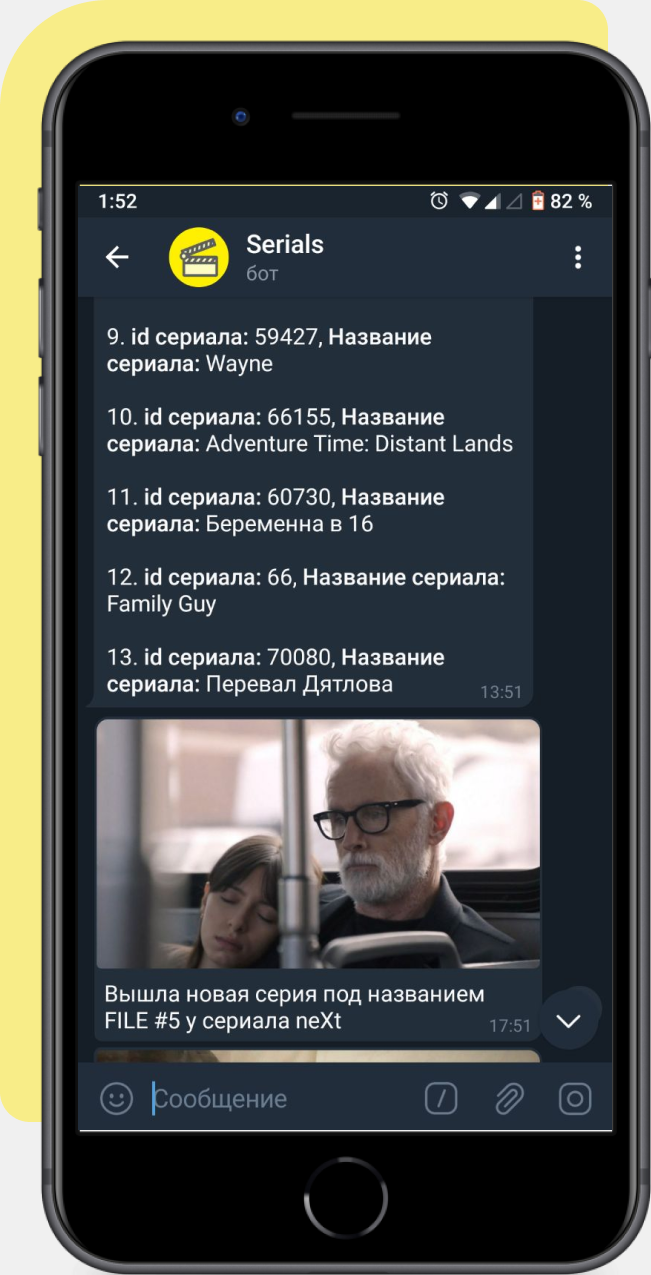
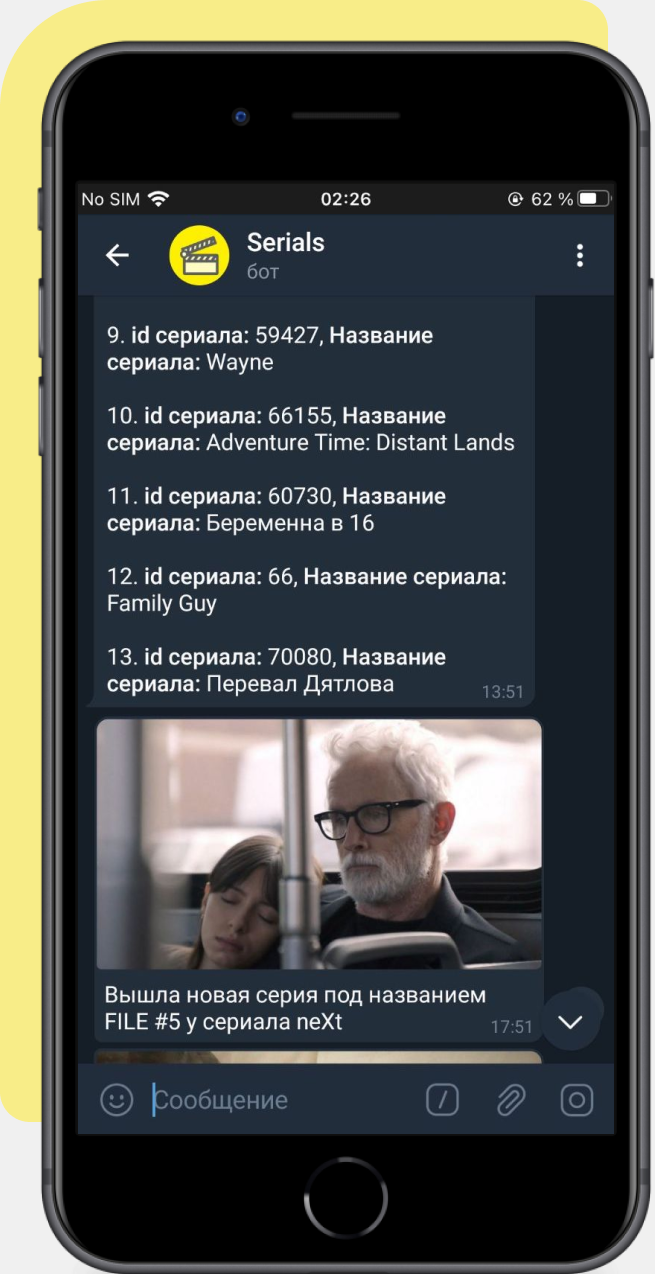
fixed a bug with the layout

diff --git a/index.html b/index.html
@@ -20,7 +20,7 @@
 		<div class="content">
 			<div class="container">
 				<div class="phone_container">
-					<img src="images/phone.png" class="phone_img">
+					<img src="images/phone1.png" class="phone_img">
 				</div>
 				<div class="description_container">
 					<div class="description_wrapper">
